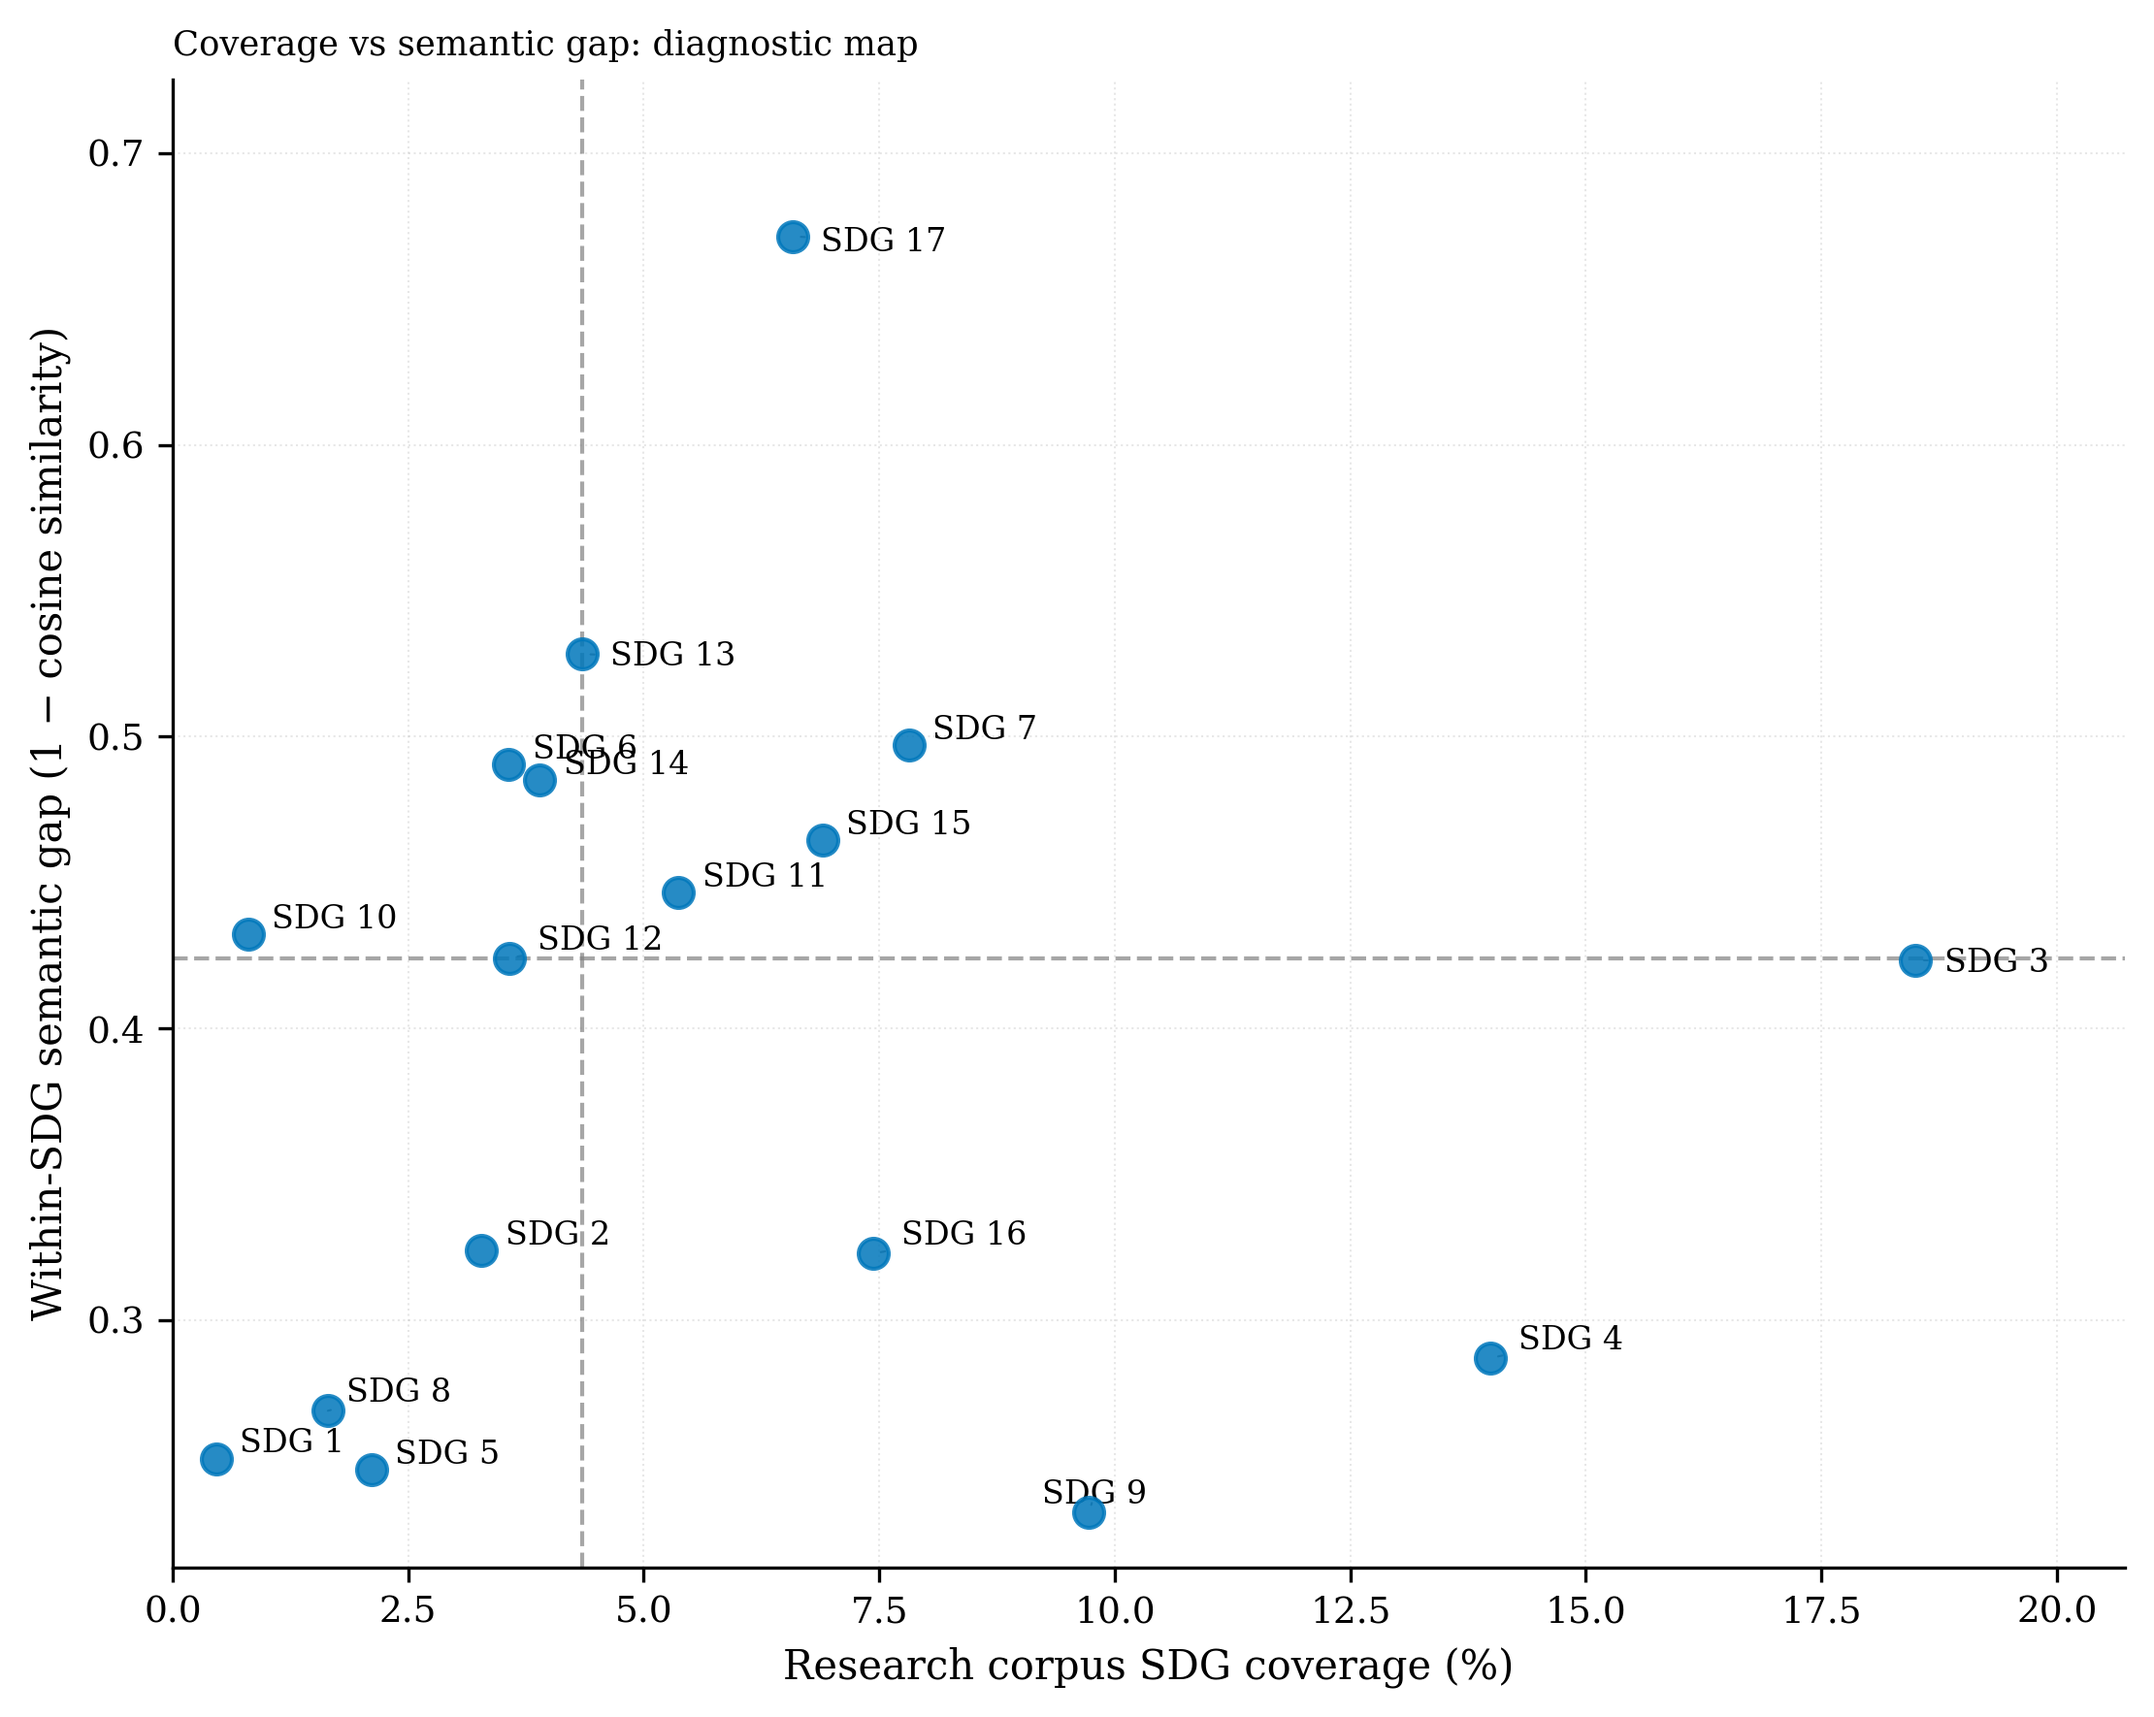
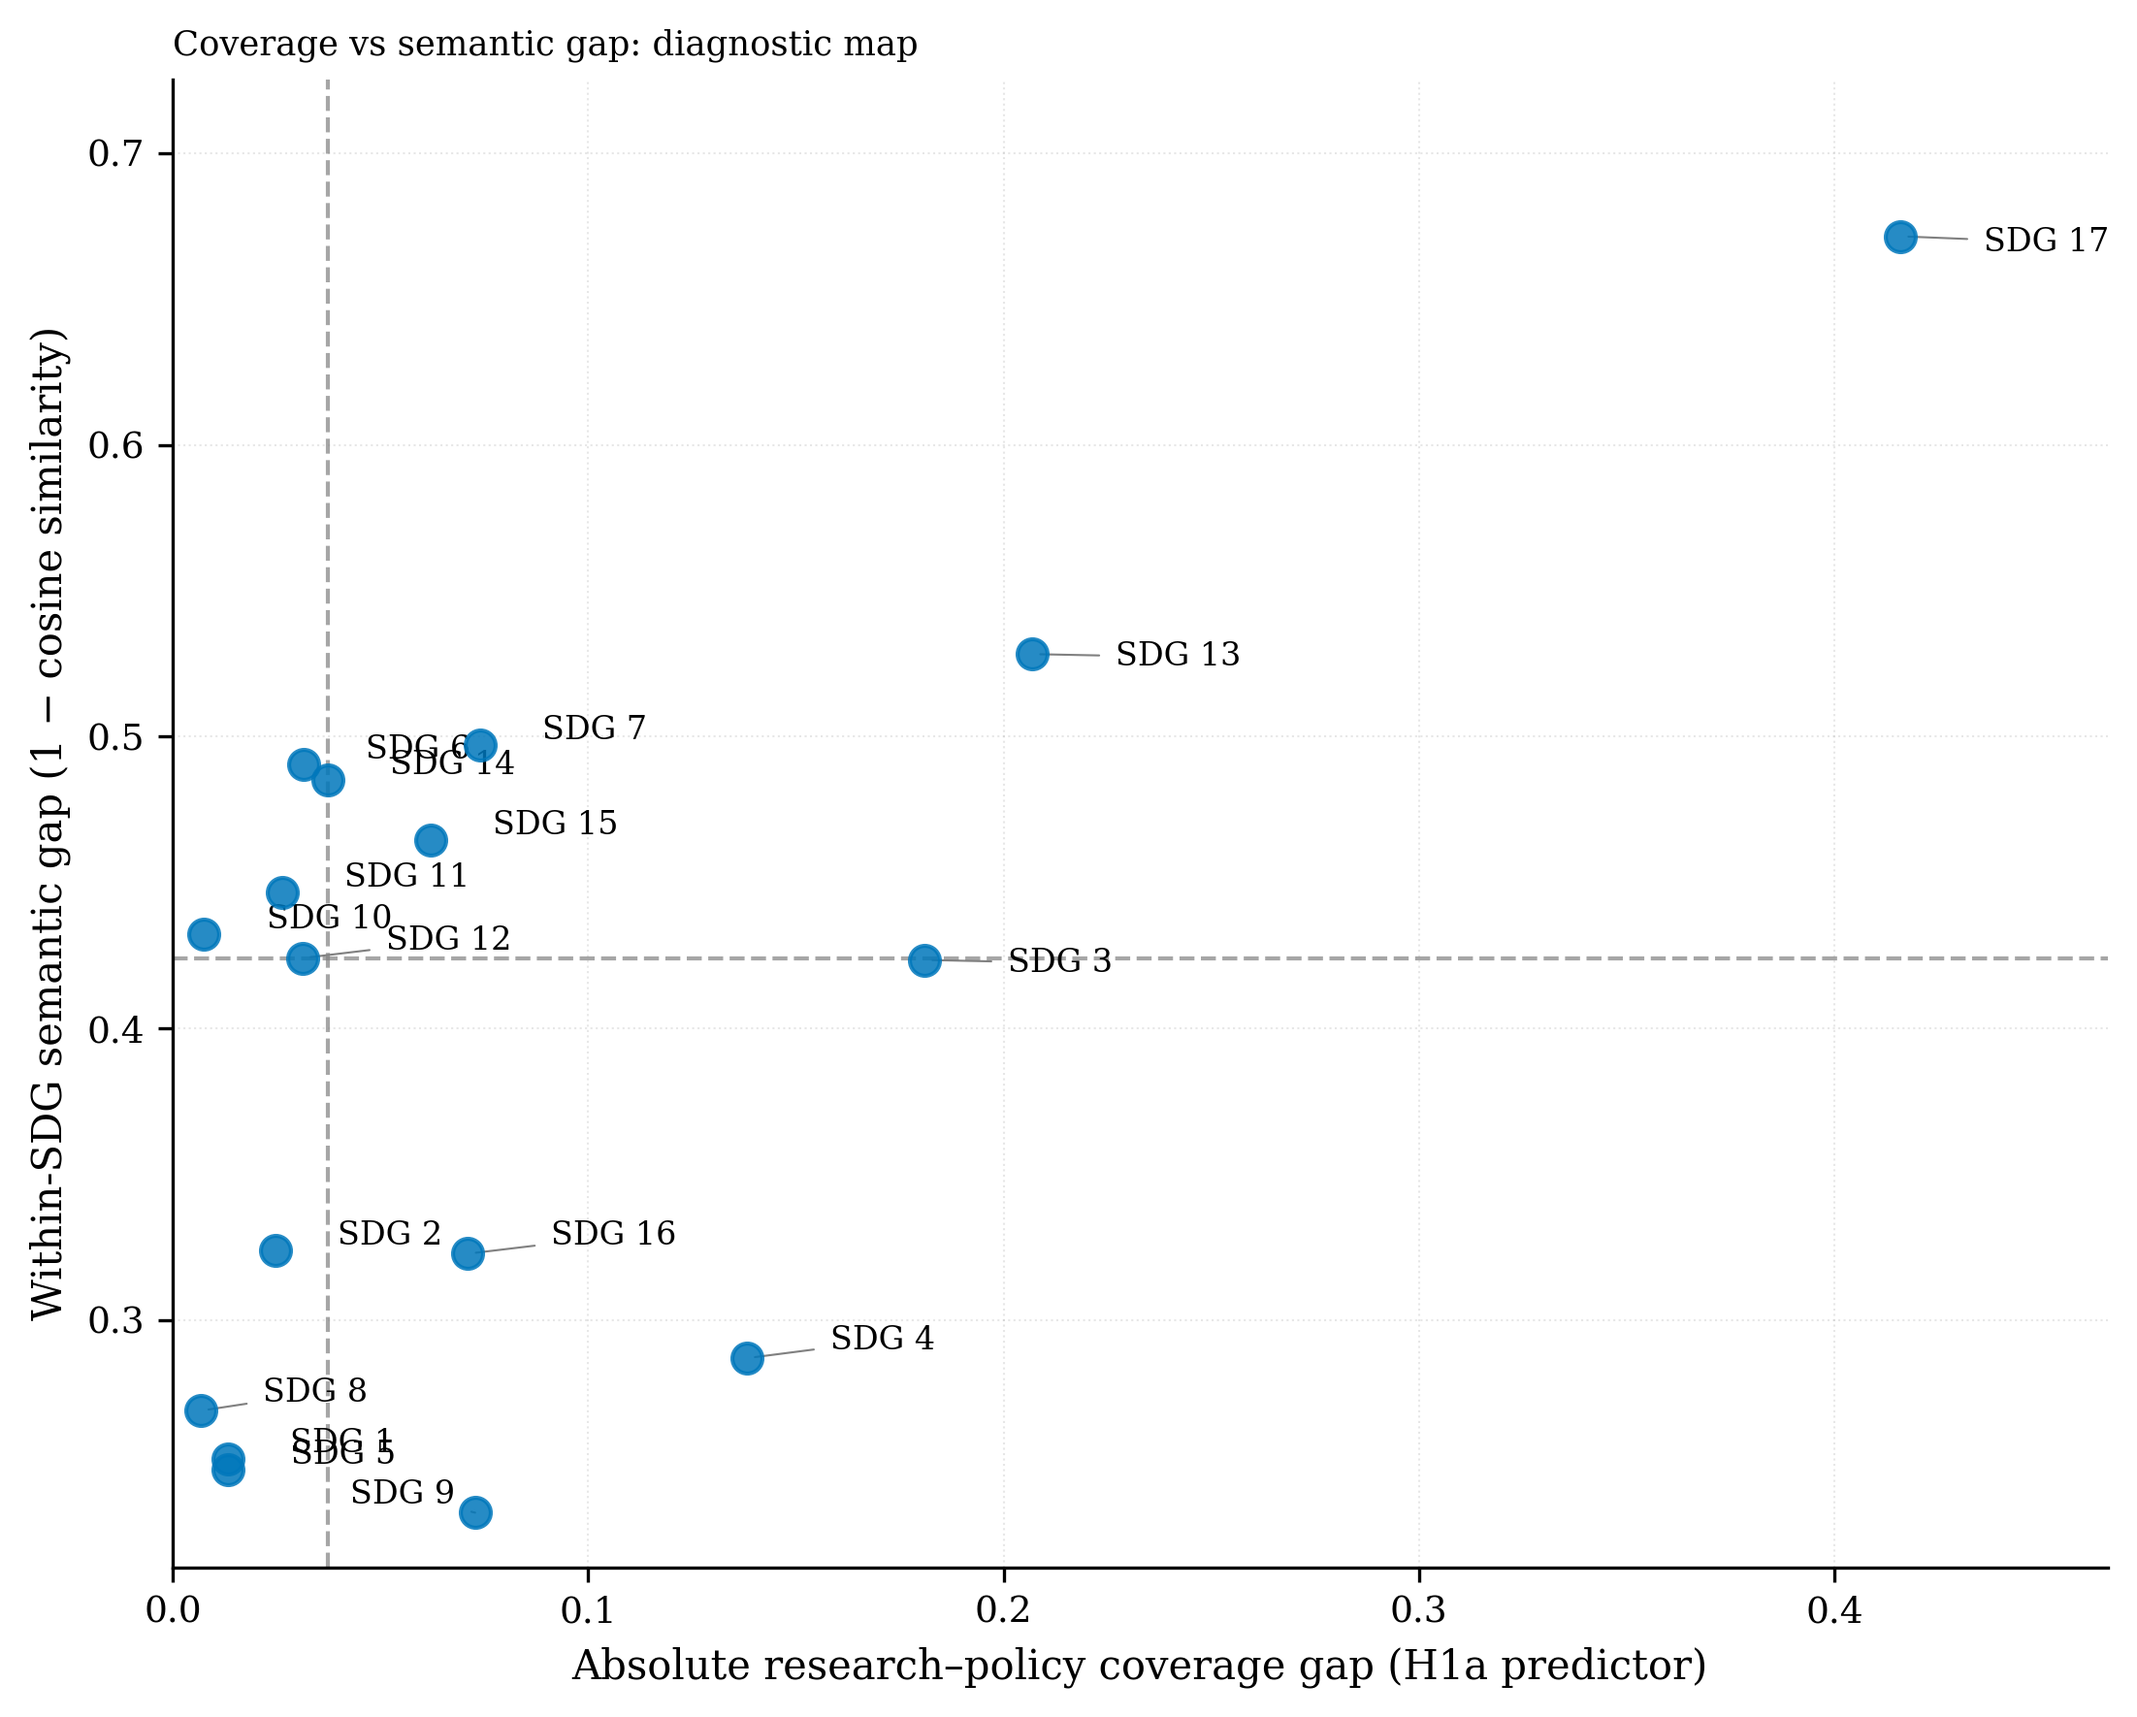
Rescale Figure 5 x-axis to coverage gap (H1a predictor); update caption and prose

diff --git a/3_writing/dissertation.tex b/3_writing/dissertation.tex
@@ -396,12 +396,12 @@ The four predictors are research coverage, policy coverage, the absolute researc
 
 H1a is positive in the canonical specification: the absolute coverage gap relates to semantic gap ($r = \HPrimaryCovgapPearsonR$, $p = \HPrimaryCovgapPearsonP$; $n = \HPrimaryN$). H1c does not hold: research coverage and semantic gap are almost uncorrelated ($r = \HPrimaryPearsonR$, $p = \HPrimaryPearsonP$; 95\% CI $[\HPrimaryPearsonCiLower, +\HPrimaryPearsonCiUpper]$). Two exploratory tests: H1d, policy coverage, is positively related ($r = \HPrimaryPolicyPearsonR$, $p = \HPrimaryPolicyPearsonP$), and H1b, signed dominance, is negatively related ($r = \HPrimaryDominancePearsonR$, $p = \HPrimaryDominancePearsonP$) -- SDGs where policy dominates diverge most. All three signals depend on SDG~17: dropping it leaves none significant (H1a $r = 0.285$, $p = 0.285$; H1b $r = -0.159$, $p = 0.558$; H1d $r = 0.215$, $p = 0.424$; Table~\ref{tab:interaction}). They also fail under alternative centroids. The four predictors and seven configurations give 28 tests without a multiplicity correction, so the nominal $p$ values of 0.008--0.014 are weak evidence on their own.
 
-Figure~\ref{fig:typology_scatter} shows each SDG. SDGs with larger coverage gaps have larger semantic gaps, but high research attention coexists with both low- and high-gap cases (e.g.\ SDG~9 low, SDG~3 and SDG~7 high), which is why H1c is near zero. The most policy-dominant SDGs, especially 13 and 17, sit above the median on both axes; SDG~17 alone carries the positive H1a, H1b, and H1d signals, so those associations are a single-SDG effect, not a general pattern. The H1a association also fails under the MPNet embedding (Table~\ref{tab:interaction}), so it is a descriptive tendency driven by one SDG, not a robust effect.
+Figure~\ref{fig:typology_scatter} shows each SDG. SDGs with larger coverage gaps tend to have larger semantic gaps, but research attention coexists with both low- and high-gap cases (e.g.\ SDG~9 low, SDG~3 and SDG~7 high), which is why H1c is near zero. SDG~17, and to a lesser extent SDG~13, sit top-right -- above the median on both the coverage-gap and semantic-gap axes; SDG~17 alone carries the positive H1a, H1b, and H1d signals, so those associations are a single-SDG effect, not a general pattern. The H1a association also fails under the MPNet embedding (Table~\ref{tab:interaction}), so it is a descriptive tendency driven by one SDG, not a robust effect.
 
 \begin{figure}[ht]
 \centering
 \includegraphics[width=0.9\textwidth]{fig5_coverage_semantic_scatter.pdf}
-\caption{Coverage vs semantic gap, one point per SDG. Reference lines mark the median research coverage (\MedianResearchPct\%) and median semantic gap (\MedianSemanticGap). High research attention coexists with low or high divergence; the most policy-dominant SDGs sit above the median on both axes.}
+\caption{Coverage gap vs semantic gap, one point per SDG. The x-axis is the absolute research--policy coverage gap (H1a predictor); the y-axis is the within-SDG semantic gap. Reference lines mark the median coverage gap and median semantic gap. SDG~17 sits top-right, above both medians.}
 \label{fig:typology_scatter}
 \end{figure}
 

diff --git a/1_code/4_visualization/plot_figures.py b/1_code/4_visualization/plot_figures.py
@@ -158,6 +158,7 @@ def main() -> None:
 
     # Medians for the diagonal thresholds used in the diagnostic map
     median_research_pct = df["research_pct"].median()
+    median_coverage_gap = df["coverage_gap_abs"].median()
     median_semantic_gap = df_sem_valid["semantic_gap"].median()
     mean_semantic_gap = df_sem_valid["semantic_gap"].mean()
 
@@ -274,28 +275,28 @@ def main() -> None:
     # -----------------------------------------------------------------------
     fig3, ax3 = plt.subplots(figsize=(7.5, 6))
 
-    ax3.axvline(median_research_pct, color="grey", linestyle="--", linewidth=1, alpha=0.7)
+    ax3.axvline(median_coverage_gap, color="grey", linestyle="--", linewidth=1, alpha=0.7)
     ax3.axhline(median_semantic_gap, color="grey", linestyle="--", linewidth=1, alpha=0.7)
 
-    xlim = (0, df["research_pct"].max() * 1.12)
+    xlim = (0, df["coverage_gap_abs"].max() * 1.12)
     ylim = (max(0.0, df_sem_valid["semantic_gap"].min() * 0.92), df_sem_valid["semantic_gap"].max() * 1.08)
 
     for _, row in df_sem_valid.iterrows():
         sdg = int(row["sdg"])
-        x = row["research_pct"]
+        x = row["coverage_gap_abs"]
         y = row["semantic_gap"]
         ax3.scatter(x, y, s=55, color=RESEARCH_COLOR, zorder=5, alpha=0.85)
-        offsets = {4: (0.3, 0.003), 9: (-0.5, 0.003), 3: (0.3, -0.004),
-                   16: (0.3, 0.003), 8: (0.2, 0.003), 17: (0.3, -0.005),
-                   13: (0.3, -0.004), 12: (0.3, 0.003)}
-        dx, dy = offsets.get(sdg, (0.25, 0.002))
+        offsets = {4: (0.02, 0.003), 9: (-0.03, 0.003), 3: (0.02, -0.004),
+                   16: (0.02, 0.003), 8: (0.015, 0.003), 17: (0.02, -0.005),
+                   13: (0.02, -0.004), 12: (0.02, 0.003)}
+        dx, dy = offsets.get(sdg, (0.015, 0.002))
         ax3.annotate(f"SDG {sdg}", (x, y), xytext=(x + dx, y + dy),
                      fontsize=8, color="black",
                      arrowprops=dict(arrowstyle="-", color="grey", lw=0.5) if sdg in offsets else None)
 
     ax3.set_xlim(xlim)
     ax3.set_ylim(ylim)
-    ax3.set_xlabel("Research corpus SDG coverage (%)")
+    ax3.set_xlabel("Absolute research–policy coverage gap (H1a predictor)")
     ax3.set_ylabel("Within-SDG semantic gap (1 − cosine similarity)")
     ax3.set_title(
         "Coverage vs semantic gap: diagnostic map",
